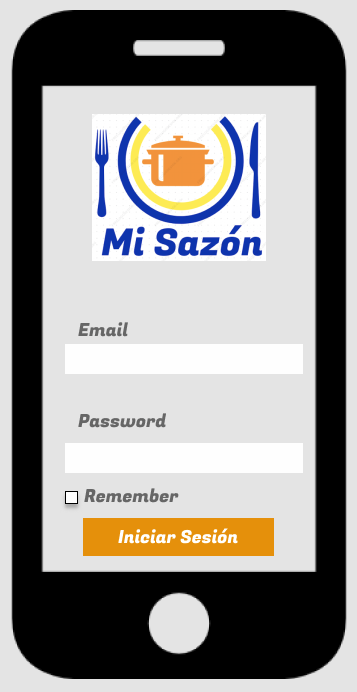
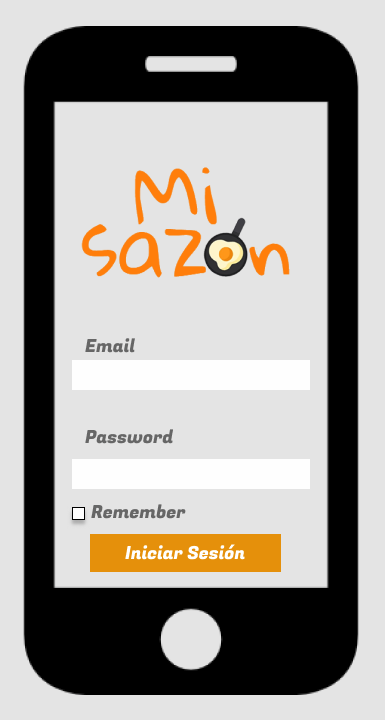
actualizacion readme parte 2

diff --git a/src/js/index.js b/src/js/index.js
@@ -34,7 +34,7 @@ $register.on('click', function() {
   const correo = $email.val();
   const password = $password.val();
   const registro = firebase.auth().createUserWithEmailAndPassword(correo, password)
-  
+
     .catch(function(error) {
     // Mensaje en consola si existe error de registro
       let errorCode = error.code;
@@ -73,12 +73,12 @@ $logout.on('click', function() {
 
 // Funcion para guardar los datos del usuaio en Firebase
 const datosUsuario = (user) =>{
-  let usuario= {
-  uid:user.uid,  
-  nombre: user.displayName,
-  correo:user.email,
-  foto: user.photoURL
-  }
-  firebase.database().ref("Usuarios/" + user.uid)
-  .set(usuario)  
-}
+  let usuario = {
+    uid: user.uid,
+    nombre: user.displayName,
+    correo: user.email,
+    foto: user.photoURL
+  };
+  firebase.database().ref('Usuarios/' + user.uid)
+    .set(usuario);
+};

diff --git a/README.md b/README.md
@@ -223,13 +223,66 @@ al funcionamiento del producto solicitado, como se muestra a continuación:
 rasgos la interfaz con los elementos que ayudaran con la interacción de la misma,
 el cuál se mostro a nuestro cliente para su aprovación.
 
-![Sketch1](./src/images/sketch1.jpeg)
+![Sketch Login Básico](./src/images/sketchloginbasico.jpeg)
 
 # Una vez hechos los cambios pertinentes se paso a diseñar la interfaz con ayuda
 de una herramienta de diseño visual (Figma), como se puede apreciar a continuación:
 
-![Image Figma1](./src/images/login1.png)
+![Image Login Básico](./src/images/loginbasico.png)
 
+# Luego de testear nuestro login, los usuarios nos comentaron que nuestro logo no
+era agradable a la vista, por este motivo se procedió a modificar el logo a lapiz
+y papel, viendose de esta manera:
+
+![Sketch1](./src/images/sketch1.jpg)
+
+# Luego, se paso a diseñar la interfaz con ayuda de una herramienta de diseño visual
+ (Figma), como se puede apreciar a continuación:
+
+ ![Image Login 1](./src/images/login1.png)
+
+# El cliente pide que no solo pueda registrarse con usuario y contraseña, sino que
+tambien se pueda autenticar con Facebook o Google, por ende se elaboró como se vería
+el login con dichos requerimientos; primero a lapiz y papel:
+
+![Sketch Login 2](./src/images/sketchlogin2.jpg)
+
+![Sketch Login 3](./src/images/sketchlogin3.jpg)
+
+# Luego, se paso a diseñar la interfaz con ayuda de una herramienta de diseño visual
+ (Figma), como se puede apreciar a continuación:
+
+ ![Image Login 2](./src/images/login2.png)
+
+ ![Image Login 3](./src/images/login3.png)
+
+El sketch a lapiz y papel, se realizó pensando en mobile-first, se implemento un menú
+hamburguesa del lado superior derecho con su respectivo logo, al darle “click” en el
+menú se desplegará una lista donde se podrá apreciar el perfil de usuario con una foto
+del mismo y un opción que nos permita cerrar la sesión ( log out ), al volver a darle
+“click” al menú de hamburguesa, este se ocultará dandole paso a la primera pantalla
+de nuestro muro se podra observar una caja que te pregunta de manera muy explicita
+¿Qué tienes en tu refri? , donde se podrá públicar lo que desees saber acerca de recetas
+de cocina.
+Luego se verán publicaciones de aquellas personas a las que agregaste a tu red social la
+cual va a contener posting de recetas, o sugerencias de las mismas. Se podrá editar,
+compartir y hasta darle like (con un corazón) al post que sea de su agrado. Luego de observar
+como se vería nuestra interfaz en lapiz y papel , y plasmando todos los requerimientos que
+se necesitaban se procedió a realizar a color  las interfaces con ayuda de Figma. Se buscó
+que nuestra interfaz  fuera los mas amigable posible , fácil de usar pero sobre todo fácil
+de entender para el usuario.
+
+# A continuación se mostrarán los sketches a lapiz y papel:
+
+ ![Sketch Muro 1](./src/images/sketchmuro1.jpg)
+
+ ![Sketch Muro 2](./src/images/sketchmuro2.jpg)
+
+# Finalinzando con la utilización de la herramienta (Figma):
+
+![Image Muro 1](./src/images/mobilefirstscreen.png)
+
+![Image Muro 2](./src/images/mobilesecondscreen.png)
 ### Tests
 
 Los tests unitarios deben cubrir un mínimo del 70% de _statements_, _functions_,
